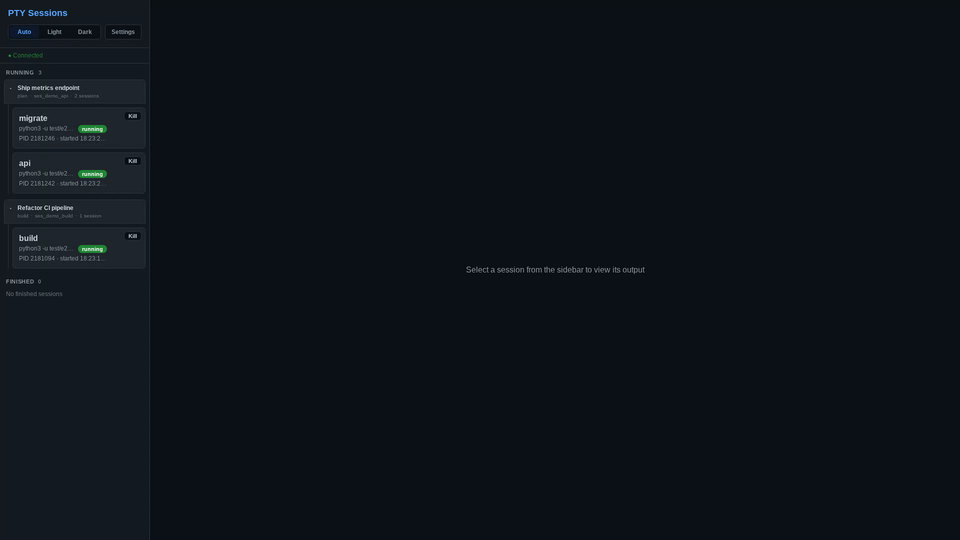
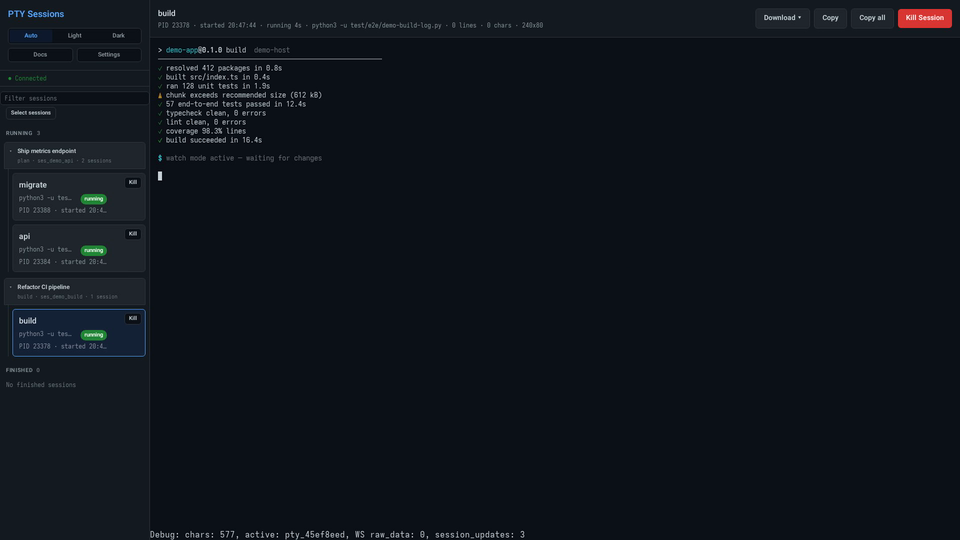
Refresh the Web-UI demo reel for the new features
Extend the recording scenes with scrollback and the settings/archive dialog,
and fix capture-demo.ts to always rebuild with VITE_EXPOSE_TEST_HOOKS so the
terminal's test hook (window.xtermTerminal) is exposed. Regenerates
web-ui-demo.gif (2.7 MB) and the poster frame.

diff --git a/test/e2e/demo-capture.pw.ts b/test/e2e/demo-capture.pw.ts
@@ -104,7 +104,18 @@ test('record README demo', async ({ page }) => {
   await waitForTerminalRegex(page, /watch mode active/, undefined, 30_000)
   await page.waitForTimeout(BEAT)
 
-  // --- Scene 3: switch to the other session, then back ---
+  // --- Scene 3: scrollback — the buffer keeps history you can scroll through ---
+  await openTerminal(page, 'build')
+  await waitForTerminalRegex(page, /watch mode active/, undefined, 15_000)
+  await page.waitForTimeout(BEAT)
+  const scrollBox = page.locator('.terminal.xterm')
+  await scrollBox.hover()
+  await page.mouse.wheel(0, -600)
+  await page.waitForTimeout(BEAT * 2)
+  await page.mouse.wheel(0, 600)
+  await page.waitForTimeout(BEAT)
+
+  // --- Scene 4: switch to the other session, then back ---
   await openTerminal(page, 'api')
   await page.waitForTimeout(BEAT * 2)
 
@@ -112,7 +123,7 @@ test('record README demo', async ({ page }) => {
   await waitForTerminalRegex(page, /watch mode active/, undefined, 15_000)
   await page.waitForTimeout(BEAT)
 
-  // --- Scene 4: mouse selection and copy ---
+  // --- Scene 5: mouse selection and copy ---
   const terminalBox = await page.locator('.terminal.xterm').boundingBox()
   if (!terminalBox) {
     throw new Error('terminal is not visible')
@@ -138,7 +149,18 @@ test('record README demo', async ({ page }) => {
   await selectTheme(page, 'Dark')
   await page.waitForTimeout(BEAT)
 
-  // --- Scene 6: a session finishes and moves to the finished section ---
+  // --- Scene 6: settings — the server's archive policy, enforced on the shared store ---
+  await page.getByRole('button', { name: 'Settings', exact: true }).click()
+  await page.waitForSelector('.settings-dialog', { timeout: 5_000 })
+  await page.waitForTimeout(BEAT)
+  const retention = page.getByTestId('settings-retention')
+  await retention.scrollIntoViewIfNeeded()
+  await page.waitForTimeout(BEAT * 2)
+  // close the dialog
+  await page.keyboard.press('Escape')
+  await page.waitForTimeout(BEAT)
+
+  // --- Scene 7: a session finishes and moves to the finished section ---
   const sessions = await api.sessions.list()
   const migrate = sessions.find((session) => session.description === 'migrate')
   if (!migrate) {
@@ -155,7 +177,7 @@ test('record README demo', async ({ page }) => {
   await expect(finishedItem).toHaveCount(1, { timeout: 15_000 })
   await page.waitForTimeout(BEAT * 2)
 
-  // --- Scene 7: back to the streaming server session ---
+  // --- Scene 8: back to the streaming server session ---
   await openTerminal(page, 'api')
   await page.waitForTimeout(BEAT * 2)
 

diff --git a/scripts/capture-demo.ts b/scripts/capture-demo.ts
@@ -207,14 +207,12 @@ async function extractPoster(videoPath: string): Promise<void> {
 }
 
 async function main(): Promise<void> {
-  if (!existsSync(join(ROOT, 'dist', 'web', 'index.html'))) {
-    console.log('Building the web client with test hooks enabled...')
-    const buildCode = await run('bun', ['run', 'build:prod'], {
-      env: { VITE_EXPOSE_TEST_HOOKS: '1' },
-    })
-    if (buildCode !== 0) {
-      throw new Error('Build failed')
-    }
+  console.log('Building the web client with test hooks enabled...')
+  const buildCode = await run('bun', ['run', 'build:prod'], {
+    env: { VITE_EXPOSE_TEST_HOOKS: '1' },
+  })
+  if (buildCode !== 0) {
+    throw new Error('Build failed')
   }
 
   const server = await startDemoServer()
